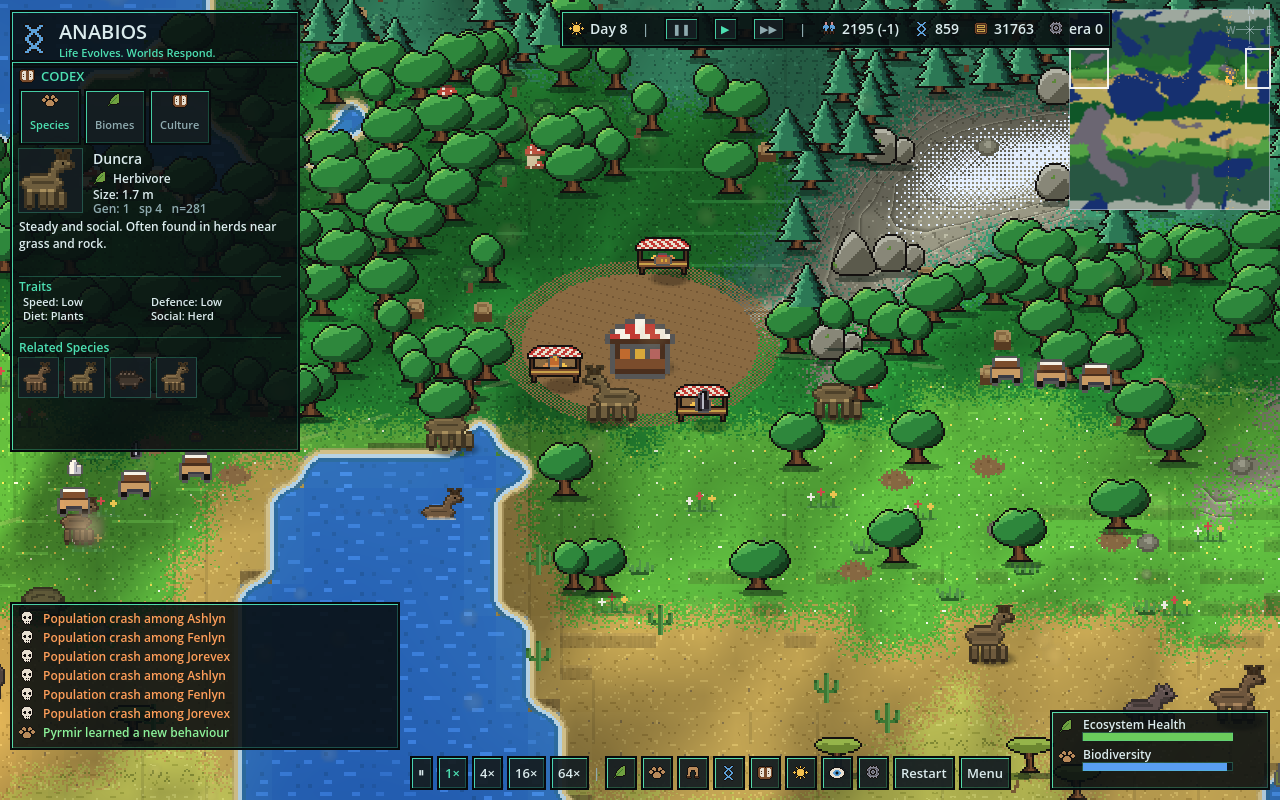
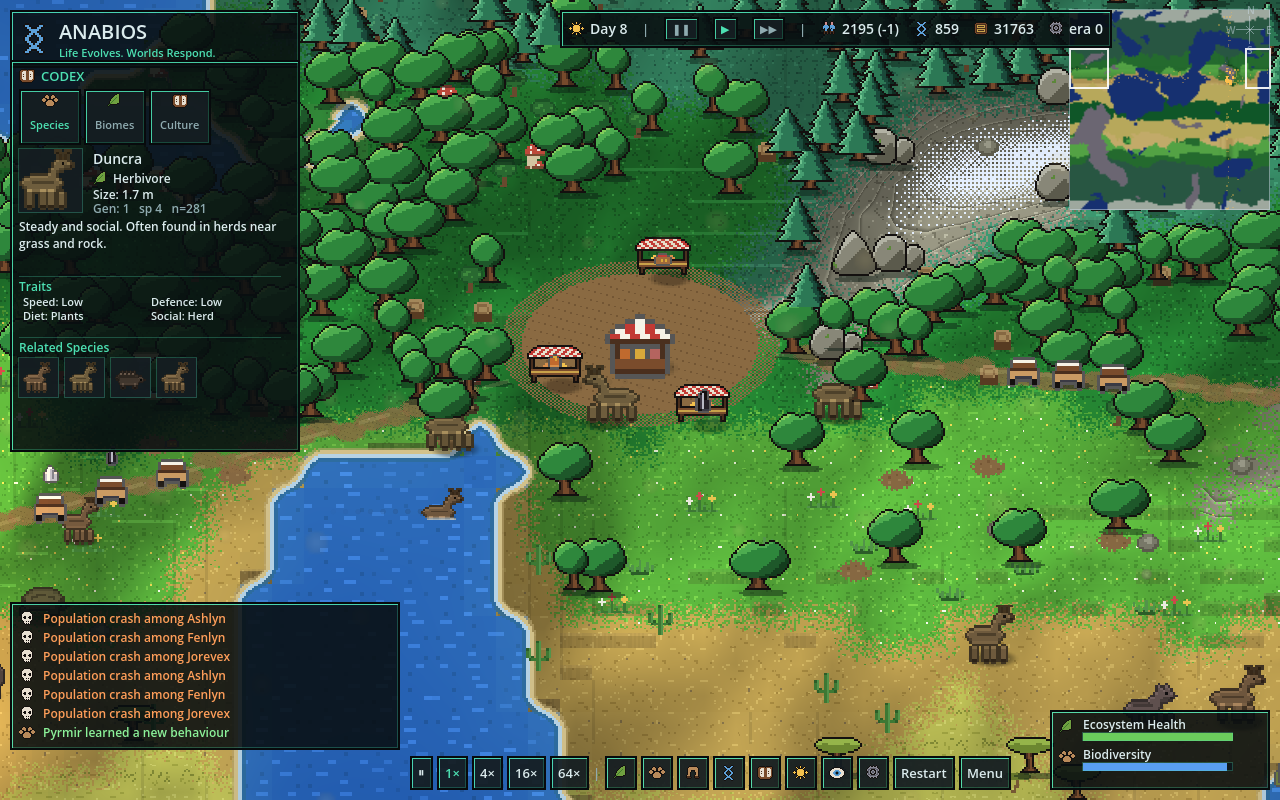
viewer: caravan routes are worn into dirt roads
The yard-earth patch is laid every six units along each route, wandering
a little sideways on a stable hash and skipping water cells, so the
routes read as the boards' tracks between settlements instead of a
dashed line. Built once with the route network.

Claude-Session: https://claude.ai/code/session_019kbTtZKC2VJBPY6SALU64h

diff --git a/gallery/README.md b/gallery/README.md
@@ -50,7 +50,8 @@ pins an agent in the unit card.
 | scale-settlement-t1591-1x.png | `settlement` t1591 1× | The same world at 1×. |
 | scale-settlement-t691-overview.png | `settlement` t691, `ANABIOS_CAM_FIT=1` | Whole-world framing: the overview mip with the density dots. |
 | scale-settlement-t891-market-8x.png | `settlement` t891 8× at (1060, 298) | The market square up close: stalls, goods on the counters, carts, the square's earth at the ground tiles' grain. |
-| scale-trade-hubs-t600-market-4x.png | `trade-hubs` t600 4× at (1060, 298) | A trade hub as a market square in the woods, a snow patch with an ordered-dither edge on the outcrop behind it. |
+| scale-trade-hubs-t600-roads-2x.png | `trade-hubs` t600 2× at (1060, 298) | Dirt roads worn along the caravan routes from the market square through the woods, stopping at the water. |
+| scale-trade-hubs-t600-market-4x.png | `trade-hubs` t600 4× at (1060, 298) | A trade hub as a market square in the woods with its roads leading off, a snow patch with an ordered-dither edge on the outcrop behind it. |
 | scale-riverlands-t291-relief-2x.png | `riverlands` t291 2× | Rivers with waterfalls on their steep stretches, contour-ledged mountains in warm olive stone with a dithered snow line, forests mixing three oaks, clutter on the grass. |
 | scale-riverlands-t291-river-4x.png | `riverlands` t291 4× at (2367, 1017) | A one-cell river running diagonally through the oaks as one stream: the diagonal coast tiles carry a channel instead of pinching the cells into beads. |
 | scale-riverlands-t291-clutter-4x.png | `riverlands` t291 4× at (2500, 1200) | Flowers, tufts, mushrooms and stumps at 4×. |
